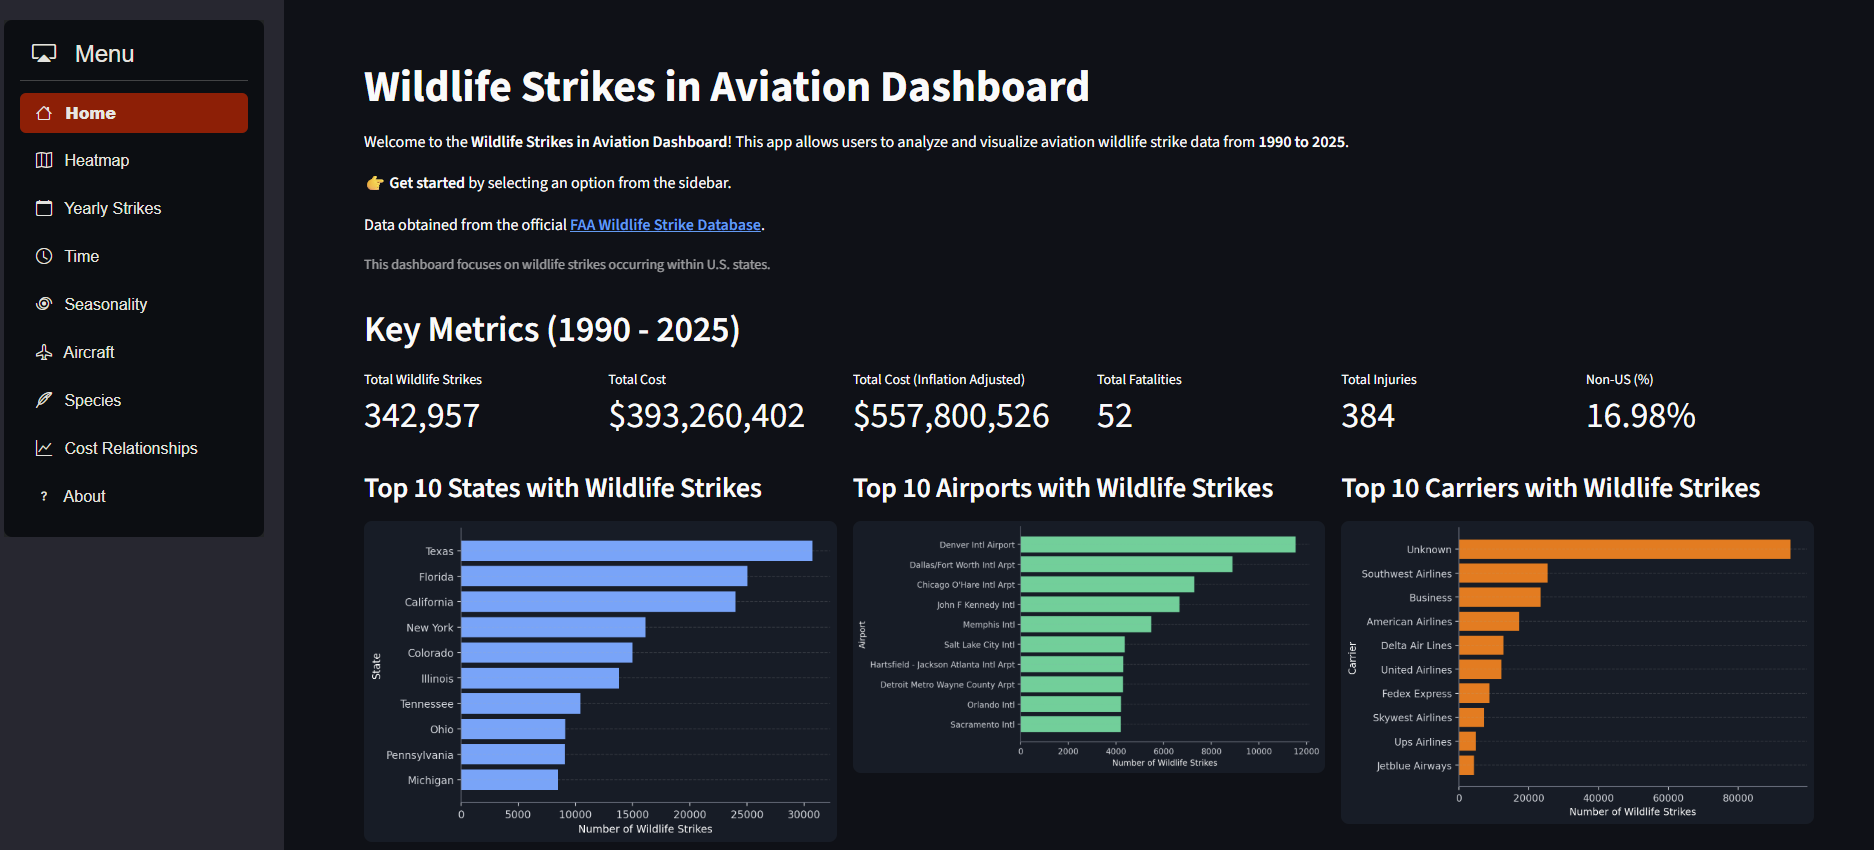
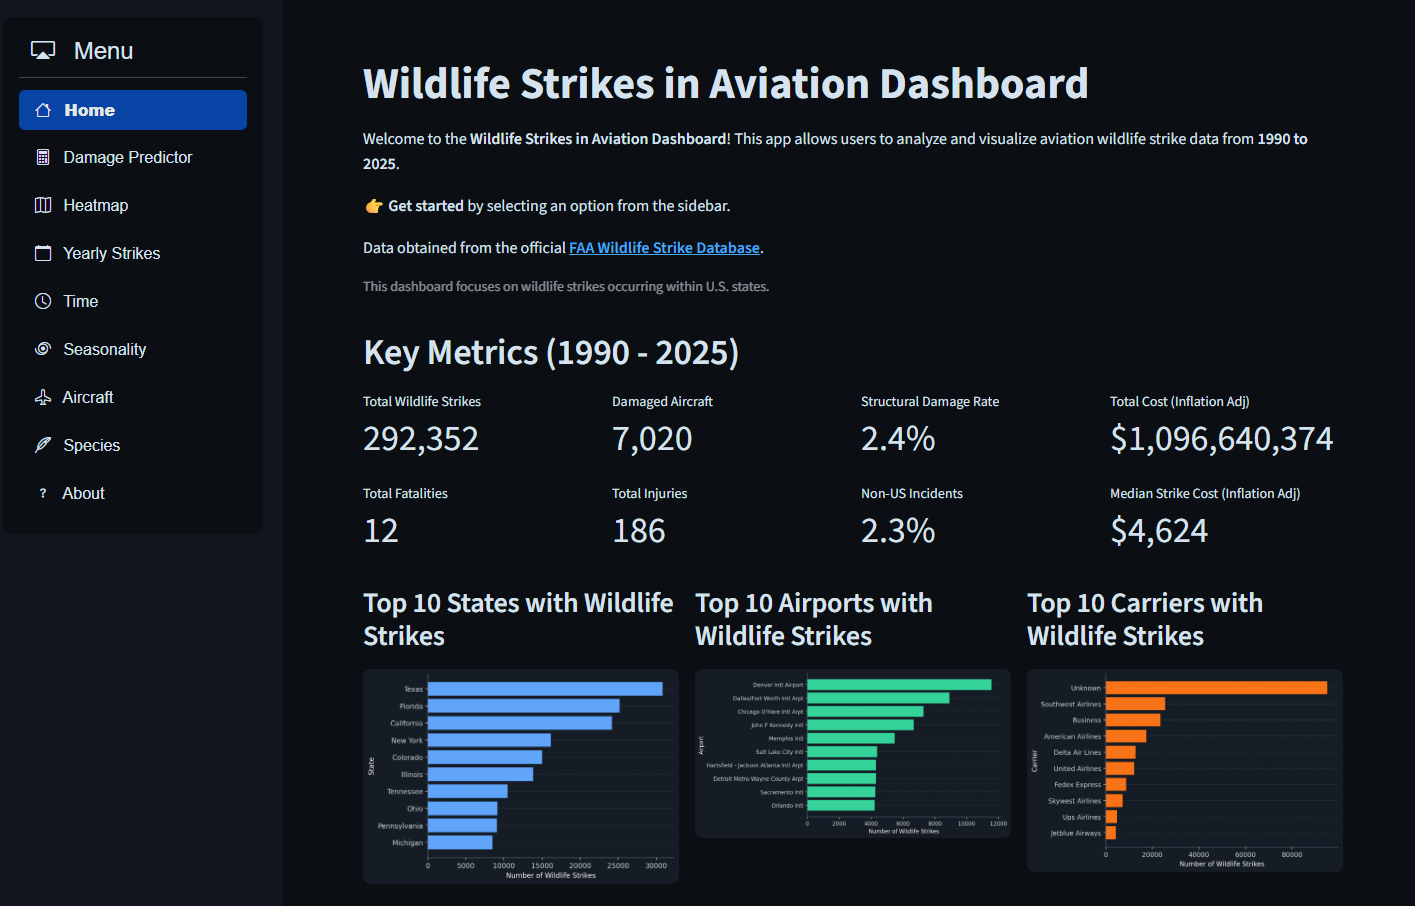
remove nested gitignore, add processed app data for deployment

Changed region(s): [[0.1866, 0.3671, 0.964, 0.9788], [0.0, 0.0, 0.9329, 0.5812], [0.0311, 0.5812, 0.0622, 0.6118]]

diff --git a/README.md b/README.md
@@ -2,11 +2,13 @@
 
 An interactive Streamlit dashboard and two-stage hurdle model for analyzing and predicting financial damage from aviation wildlife strikes in U.S. airspace, built on the [FAA Wildlife Strike Database](https://wildlife.faa.gov/).
 
+![Dashboard Preview](outputs/figures/dashboard_preview.png)
+
 ---
 
 ## Live App
 
-[View on Streamlit Cloud](https://aviation-wildlife-strikes-vl.streamlit.app/)
+[View on Streamlit Cloud](https://aviation-wildlife-strikes-v2.streamlit.app)
 
 ---
 
@@ -138,5 +140,5 @@ The raw data file is not committed to this repository due to size. Download it d
 **Vlad Lee** — Data Scientist (MIDS, UC Berkeley)
 
 - [LinkedIn](https://www.linkedin.com/in/vlad-lee)
-- [GitHub](https://github.com/Vlad-Lee/Aviation-Wildlife-Strikes)
+- [GitHub](https://github.com/Vlad-Lee/aviation-wildlife-strikes)
 - [email redacted]